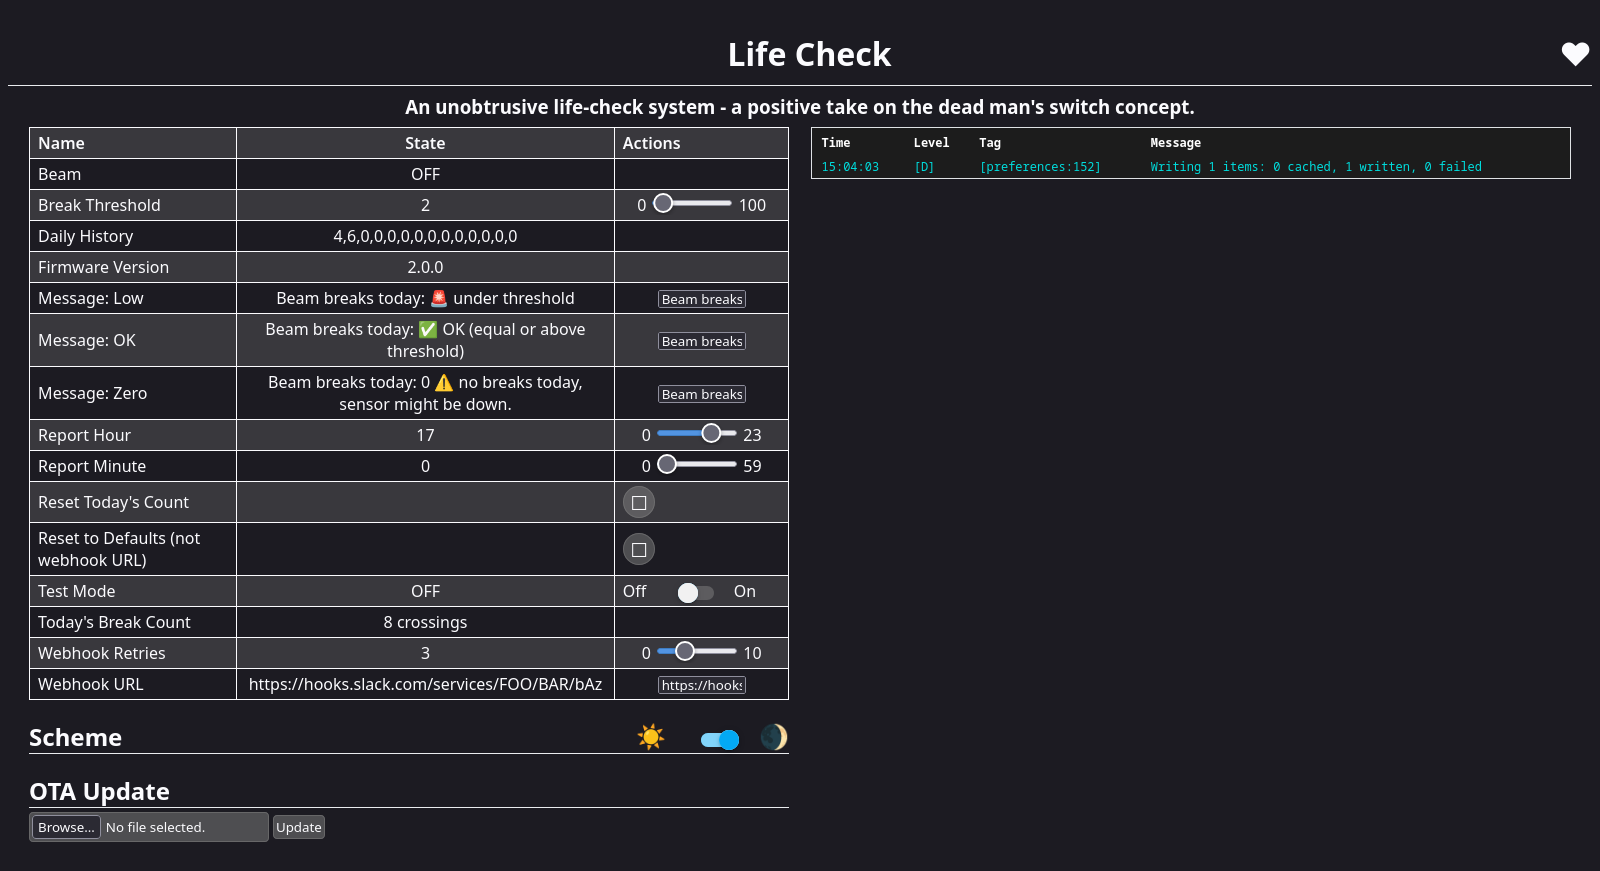
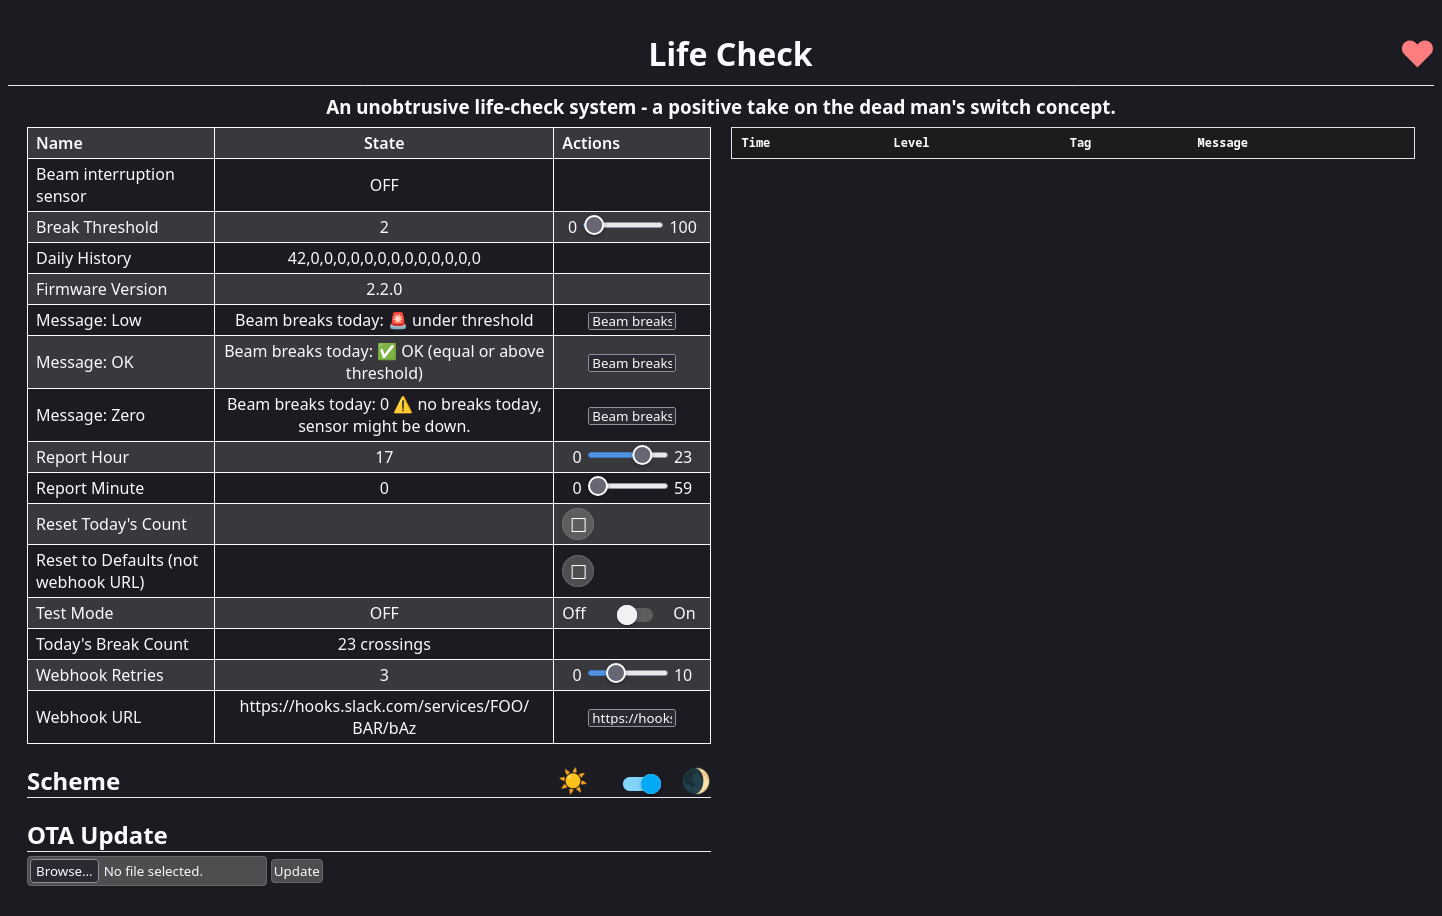
fix: rename beam sensor label for clarity
`Beam: OFF` in the ESPHome web UI was ambiguous to non-technical users
who could interpret "OFF" as an outage rather than a clear beam.
Renamed to `Beam interruption sensor` so On/Off maps unambiguously
to interrupted/clear.

diff --git a/openspec/specs/esphome-firmware/spec.md b/openspec/specs/esphome-firmware/spec.md
@@ -242,7 +242,7 @@ The `project.version` field SHALL be updated to match the git release tag immedi
 
 The `web_server` component SHALL use `local: true` (assets served from device flash; UI works on isolated home networks) and expose firmware upload via `ota: platform: web_server`. The web server version SHALL be controlled by a `web_server_version` substitution (default `"2"` for WROOM stability; set to `"3"` on ESP32-S3 or when group/graph/browser-OTA UI features are needed). Version 3 on original ESP32-WROOM causes significant UI latency and HTTP server task contention with sensor logic.
 
-When `web_server_version` is `"3"`, the web UI SHALL define six `sorting_groups`: **Status** (Beam, Today's Break Count, Daily History), **Controls** (Test Mode, Reset Today's Count), **Report** (Break Threshold, Report Hour, Report Minute), **Messages** (Message: Zero, Message: Low, Message: OK), **Webhook** (Webhook URL, Webhook Retries), **System** (Reset to Defaults, Firmware Version). Every entity SHALL declare a `sorting_group_id` and sequential `sorting_weight` (1, 2, 3…) within its group. These blocks SHALL be commented out when running version 2 (they hard-error under v2).
+When `web_server_version` is `"3"`, the web UI SHALL define six `sorting_groups`: **Status** (Beam interruption sensor, Today's Break Count, Daily History), **Controls** (Test Mode, Reset Today's Count), **Report** (Break Threshold, Report Hour, Report Minute), **Messages** (Message: Zero, Message: Low, Message: OK), **Webhook** (Webhook URL, Webhook Retries), **System** (Reset to Defaults, Firmware Version). Every entity SHALL declare a `sorting_group_id` and sequential `sorting_weight` (1, 2, 3…) within its group. These blocks SHALL be commented out when running version 2 (they hard-error under v2).
 
 The firmware SHALL include a `Reset to Defaults (not webhook URL)` button that restores all NVS-persisted entities (thresholds, retries, report time, message templates) to their substitution-block defaults. The webhook URL SHALL be explicitly excluded from this reset.
 

diff --git a/CHANGELOG.md b/CHANGELOG.md
@@ -9,10 +9,15 @@ and this project adheres to [Semantic Versioning](https://semver.org/spec/v2.0.0
 
 ## [Unreleased]
 
+## [2.2.1] - 2026-05-16
+
 ### Changed
 
 #### ESP32 / ESPHome route
 
+- Binary sensor renamed from `Beam` to `Beam interruption sensor` — `Beam: OFF`
+  was misleading to non-technical users who may interpret "OFF" as an outage
+  rather than a clear beam
 - Battery monitoring documented as illustrative only — not intended for
   production use, as the boost converter cannot guarantee a stable 5 V supply
   under WiFi TX load at all battery charge levels
@@ -124,4 +129,5 @@ ______________________________________________________________________
 [2.0.0]: https://github.com/remigius42/life-check/compare/v1.0.0...v2.0.0
 [2.1.0]: https://github.com/remigius42/life-check/compare/v2.0.0...v2.1.0
 [2.2.0]: https://github.com/remigius42/life-check/compare/v2.1.0...v2.2.0
-[unreleased]: https://github.com/remigius42/life-check/compare/v2.2.0...HEAD
+[2.2.1]: https://github.com/remigius42/life-check/compare/v2.2.0...v2.2.1
+[unreleased]: https://github.com/remigius42/life-check/compare/v2.2.1...HEAD
